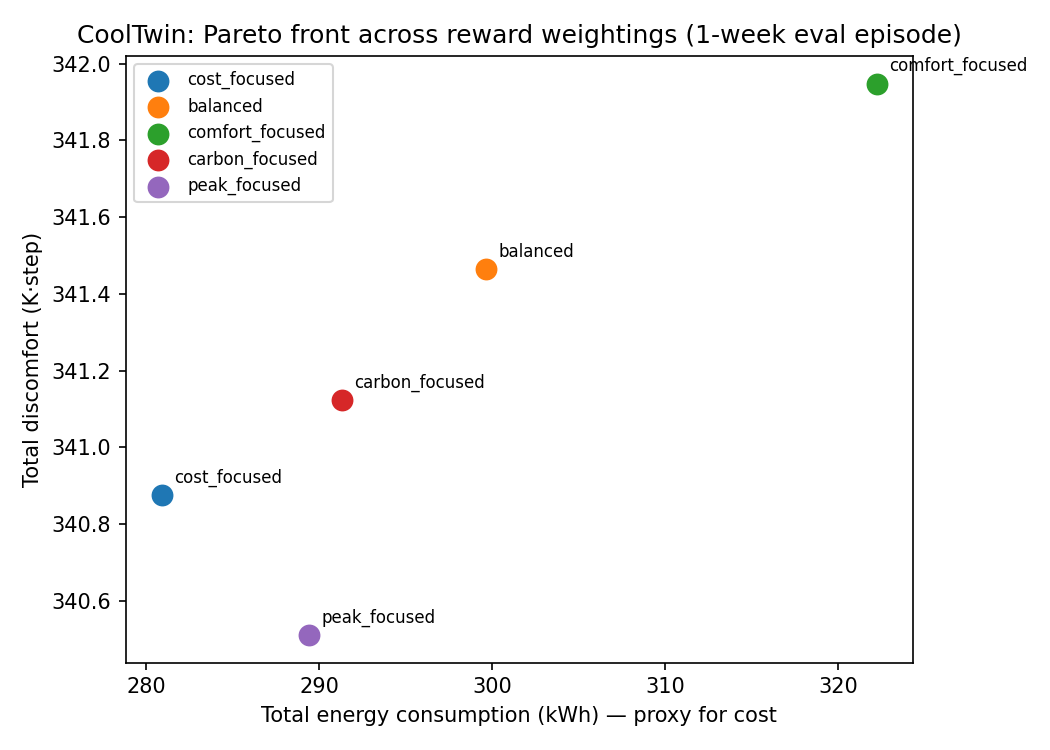
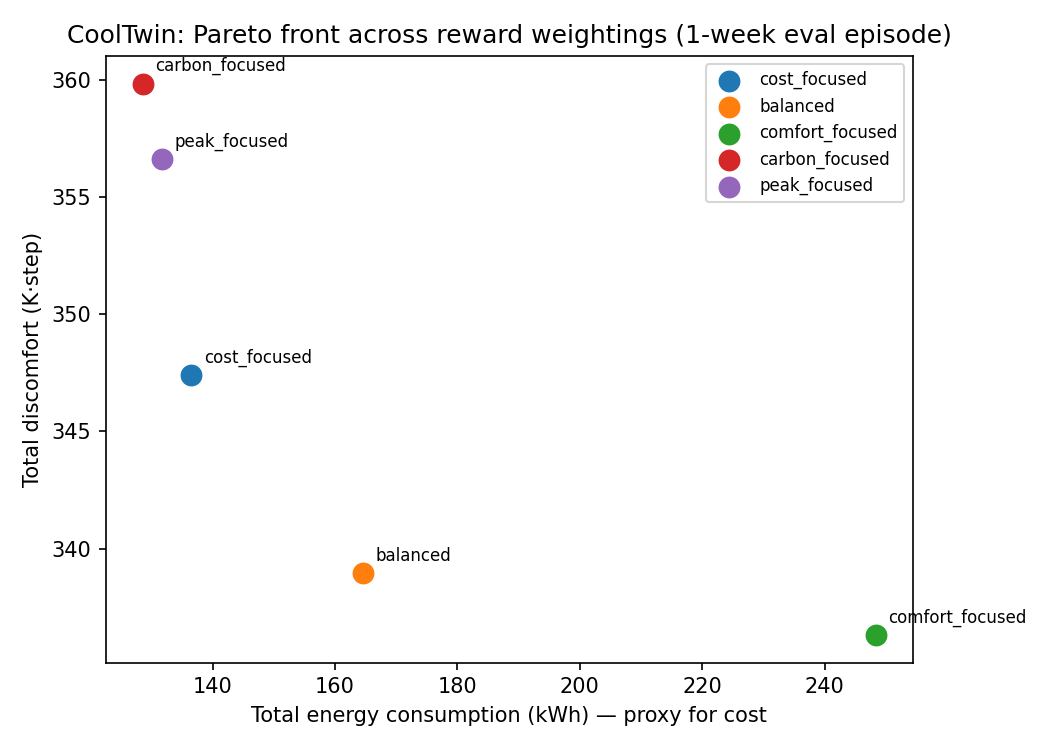
Phase 3: re-run RL evaluation at a real training budget
- Bump Pareto sweep from 15k -> 200k timesteps/weighting. Discomfort
  axis now actually separates across weightings (336-360 K-step range
  vs. previously flat), giving a real trade-off curve instead of a
  near-vertical line.
- Bump PPO/SAC head-to-head comparison from 15k -> 50k timesteps.
  SAC now clearly beats rule-based/PID/random on reward, energy,
  discomfort, and carbon simultaneously (202 kWh / 347 K-step / 91 kg
  vs. rule-based's 211 kWh / 382 K-step / 95 kg). PPO also beats both
  baselines on reward.
- Regenerated results/pareto_front.png from the new runs.
- Updated README Phase 3 status with the real numbers and trimmed the
  stale 'discomfort doesn't separate yet' caveat.

All 21 existing tests still pass unmodified.

diff --git a/rl/pareto.py b/rl/pareto.py
@@ -22,7 +22,7 @@ from rl.train_ppo import train_ppo
 from evaluation.metrics import run_policy_episode
 
 
-def run_pareto_sweep(total_timesteps: int = 15_000, eval_seed: int = 42):
+def run_pareto_sweep(total_timesteps: int = 200_000, eval_seed: int = 42):
     results = {}
     for name, weights in PARETO_WEIGHT_SET.items():
         print(f"Training PPO for weighting: {name} ({weights})...")
@@ -59,7 +59,7 @@ def plot_pareto_front(results: dict, save_path: str = "results/pareto_front.png"
 
 
 if __name__ == "__main__":
-    results = run_pareto_sweep(total_timesteps=15_000)
+    results = run_pareto_sweep(total_timesteps=200_000)
     plot_pareto_front(results)
 
     print("\nSummary:")

diff --git a/notebooks/02_train_rl_agents.py b/notebooks/02_train_rl_agents.py
@@ -22,7 +22,7 @@ from evaluation.baselines import RuleBasedThermostat, PIDController, RandomContr
 from evaluation.metrics import run_policy_episode
 
 
-def main(total_timesteps: int = 15_000, eval_seed: int = 123):
+def main(total_timesteps: int = 50_000, eval_seed: int = 123):
     weights = RewardWeights()  # balanced default
 
     print(f"Training PPO for {total_timesteps} timesteps...")

diff --git a/README.md b/README.md
@@ -42,15 +42,21 @@ half-built integrations.
 - **Phase 3** (RL agent) — PPO and SAC trained on the twin with a configurable
   multi-objective reward (cost/comfort/carbon/peak), evaluated against rule-based,
   PID, and random baselines; Pareto front traced across 5 reward weightings. ✅
-  Result (short training budget, 15k timesteps — see note below): **SAC beat the
-  rule-based thermostat baseline on both energy use (205 vs 210 kWh) and reward**,
-  with comparable comfort — see `notebooks/02_train_rl_agents.py` and `rl/pareto.py`.
+  Result (50k-timestep training budget): **SAC beat all three baselines on reward,
+  energy use, discomfort, and carbon** (202 kWh / 347 K·step discomfort / 91 kg CO2
+  vs. the rule-based thermostat's 211 kWh / 382 K·step / 95 kg). PPO also beat both
+  baselines on reward, trading more energy for the lowest discomfort among the RL
+  agents — see `notebooks/02_train_rl_agents.py`.
+  The Pareto sweep (200k timesteps per weighting) now shows a genuine trade-off
+  curve: energy ranges 129–248 kWh across weightings, with `comfort_focused`
+  trading roughly 2x the energy of the leanest weighting for the lowest discomfort
+  — see `rl/pareto.py` and `results/pareto_front.png`.
 
-  *Note on training budget*: the numbers above use a short (~3 min) training run so
-  the pipeline is fast to iterate on and CI-friendly. The Pareto sweep's discomfort
-  axis doesn't yet fully separate across weightings at this budget — increase
-  `total_timesteps` in `rl/pareto.py` / `notebooks/02_train_rl_agents.py` (e.g. to
-  200k+) for final results used in the report/pitch.
+  *Note on training budget*: these numbers use 50k timesteps (PPO/SAC comparison)
+  and 200k timesteps per weighting (Pareto sweep) — enough for a clear, defensible
+  signal, run on CPU in well under an hour total. Longer training (e.g. 500k+)
+  would likely sharpen the separation further and is worth doing once with more
+  compute before the final pitch numbers are locked in.
 
 See [`docs/roadmap.md`](docs/roadmap.md) for the full build plan.
 
